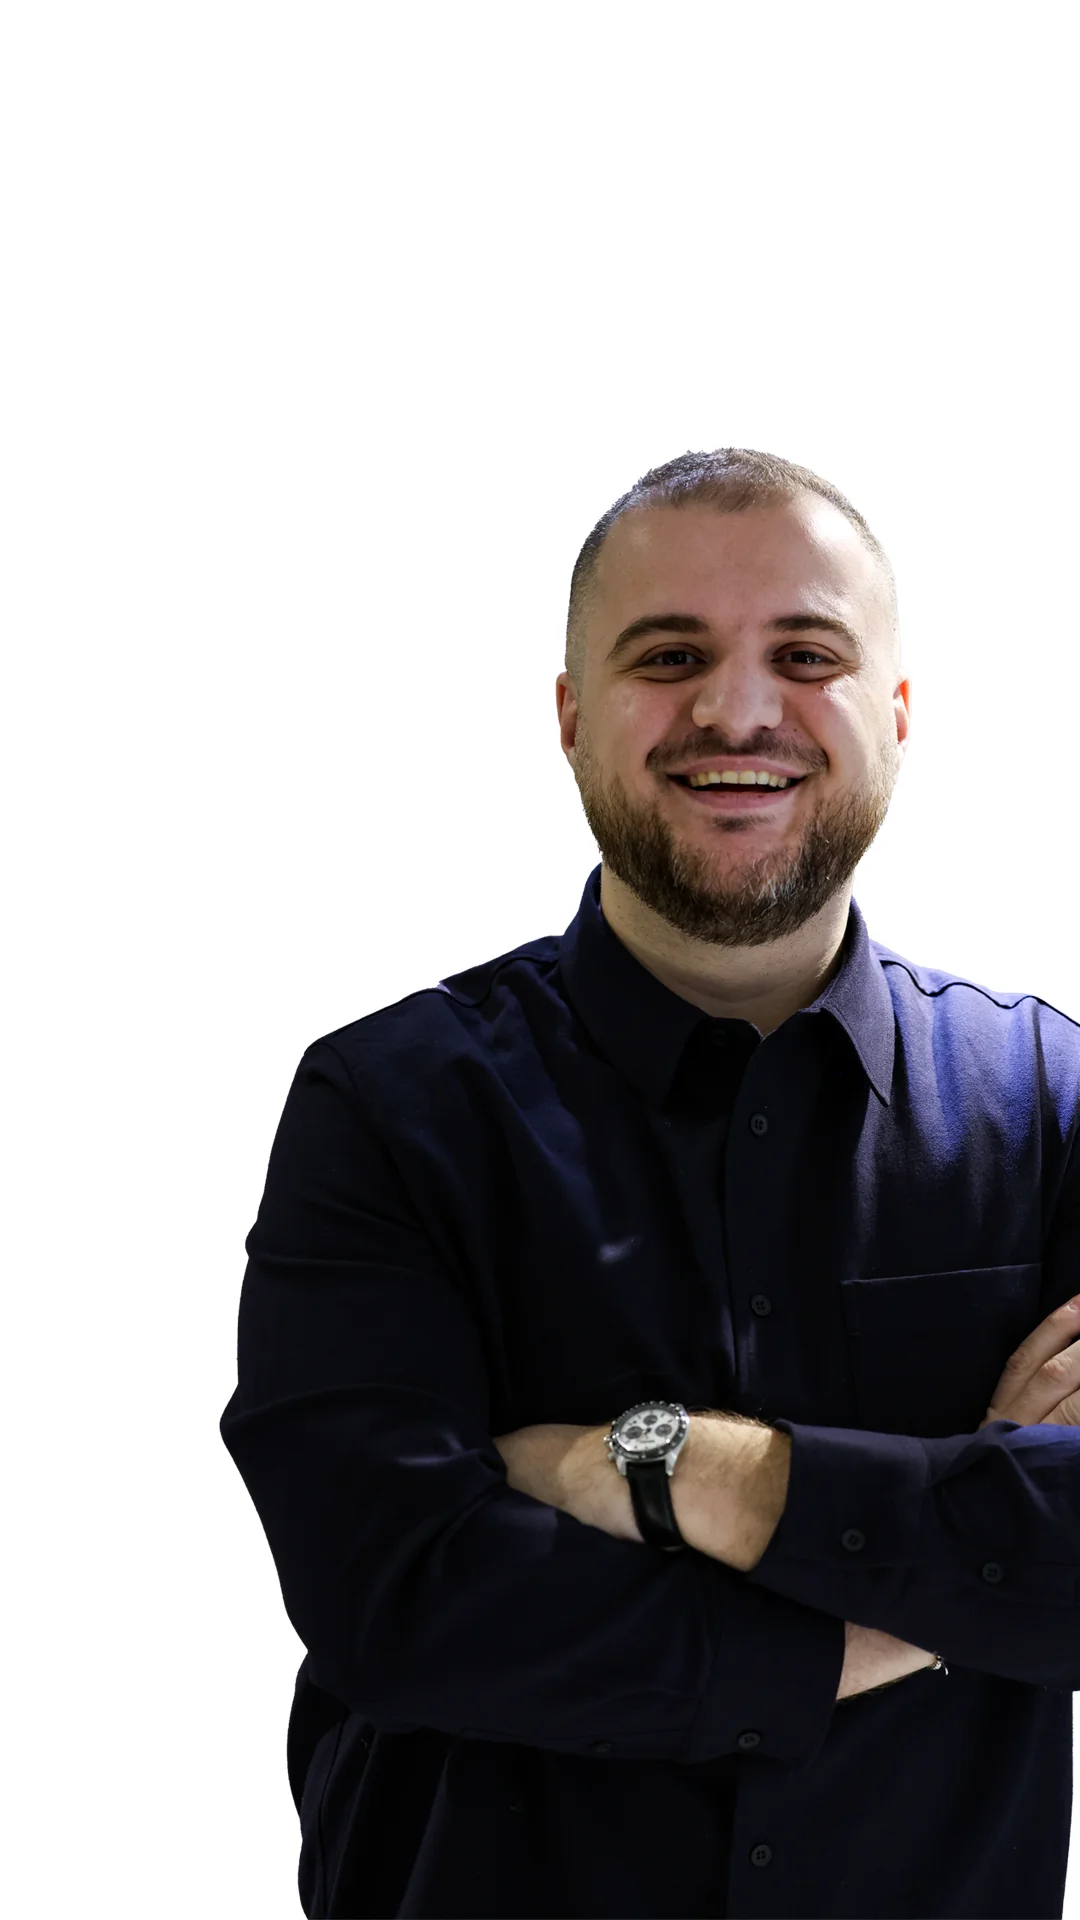
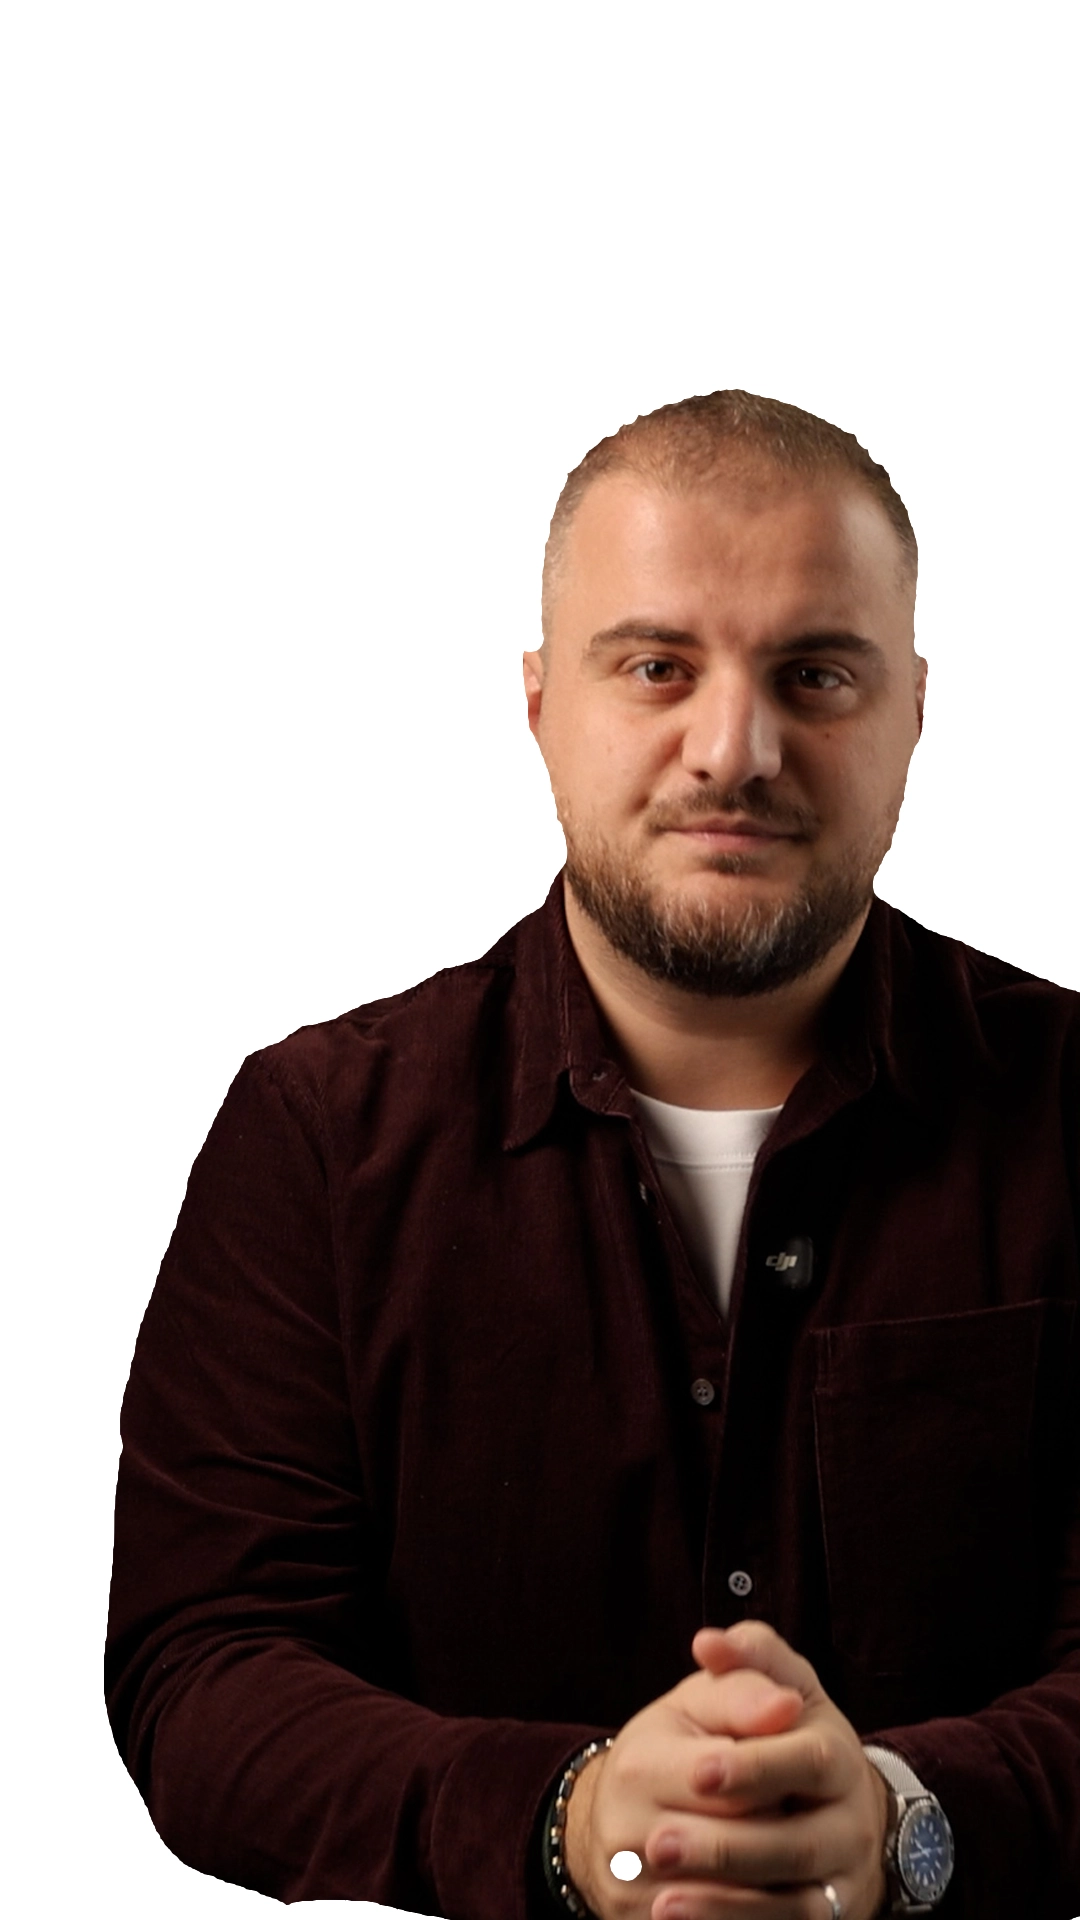
Update Andi's thumbnail photo

Changed region(s): [[0.0917, 0.1875, 1.0, 1.0], [0.3667, 0.75, 0.4278, 0.7812], [0.3361, 0.6875, 0.3667, 0.7188]]

diff --git a/sw.js b/sw.js
@@ -1,6 +1,6 @@
 /* Keeps a copy of the app on the phone so it opens without internet.
    Online it always fetches the newest files first (3 s limit), so an upload to the site shows up on the next launch. */
-const CACHE = "story-studio-v7";
+const CACHE = "story-studio-v8";
 const FILES = [
   "./", "./index.html", "./stories.html", "./fotolajm.html", "./videolajm.html", "./thumbnail.html", "./timeline.js", "./reframe.js", "./timeline.css",
   "./common.css", "./common.js", "./fonts.css", "./logo.png", "./foto-overlay.webp",
